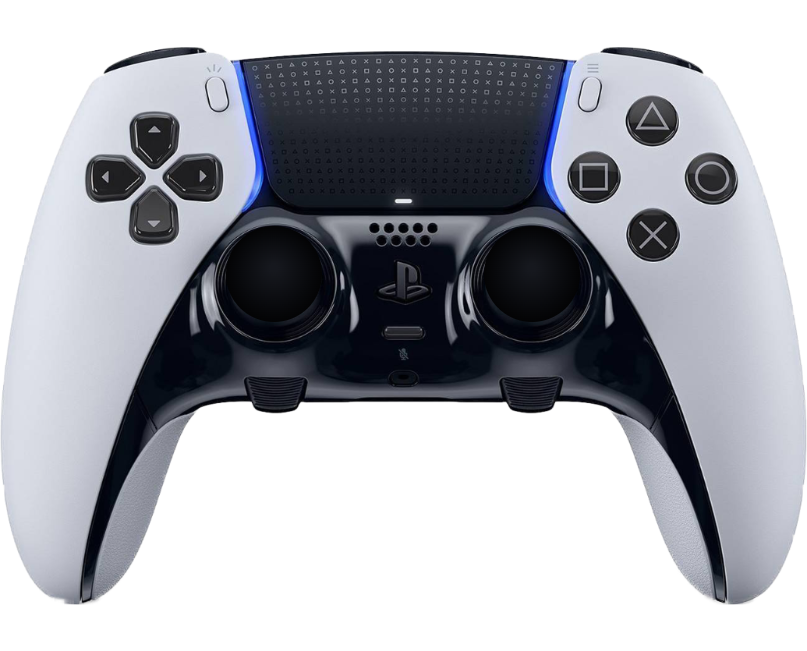
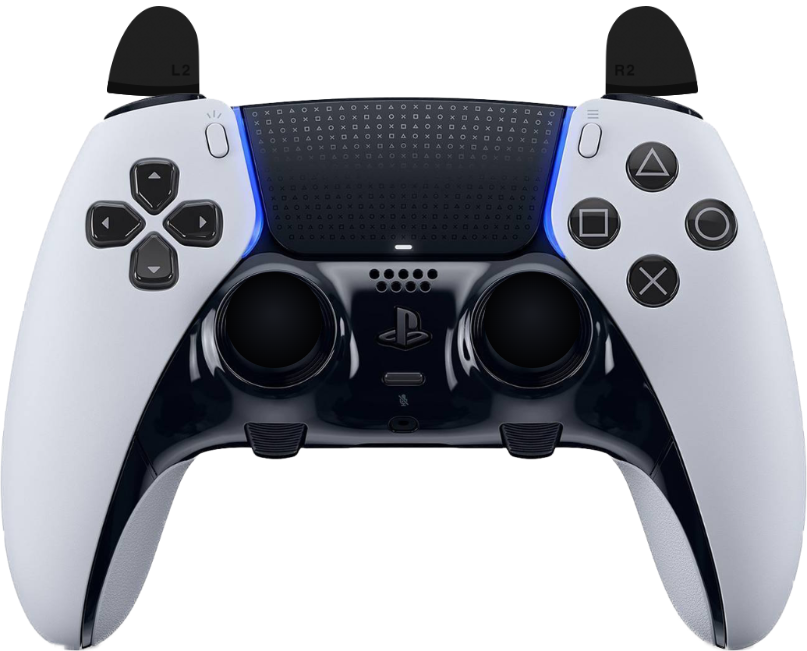
Edge skin: progress-bar triggers and touchpad click
Add L2/R2 trigger art above the shoulders with bottom-up fill sprites
(use smeter=1), a touchpad pressed glow, and move the photo to the
bottom of the canvas to make room. Base rule specificity raised so the
skin's own background can't override it.

diff --git a/edge/style.css b/edge/style.css
@@ -1,6 +1,8 @@
-/* -- DualSense Edge skin for GamepadViewer (Xbox layout, s=1) --
+/* -- DualSense Edge skin for GamepadViewer (Xbox layout) --
 OBS browser source:
-  URL:    https://gamepadviewer.com/?p=1&s=1&editcss=https://raw.githubusercontent.com/86oijd/roller/refs/heads/main/edge/style.css
+  URL:    https://gamepadviewer.com/?p=1&s=1&smeter=1&editcss=https://raw.githubusercontent.com/86oijd/roller/refs/heads/main/edge/style.css
+  (smeter=1 makes the triggers fill like a progress bar)
+  Custom CSS box in OBS: leave only the default body line
   Size:   807 x 651
 Images live in the /edge folder of github.com/86oijd/roller.
 */
@@ -11,8 +13,7 @@ body {
     overflow: hidden;
 }
 
-.controller.xbox,
-.controller.xbox.disconnected {
+body .controller[class] {
     background: url("https://raw.githubusercontent.com/86oijd/roller/refs/heads/main/edge/base.png") no-repeat;
     background-size: 807px 651px;
     width: 807px;
@@ -22,7 +23,7 @@ body {
 }
 
 /* every group spans the whole canvas; children are placed absolutely */
-.xbox .triggers, .xbox .bumpers, .xbox .arrows, .xbox .abxy, .xbox .sticks, .xbox .dpad {
+body .controller .triggers, body .controller .bumpers, body .controller .arrows, body .controller .abxy, body .controller .sticks, body .controller .dpad {
     position: absolute;
     left: 0;
     top: 0;
@@ -30,7 +31,7 @@ body {
     height: 651px;
 }
 
-.xbox .trigger, .xbox .bumper, .xbox .back, .xbox .start, .xbox .button, .xbox .stick, .xbox .face {
+body .controller .trigger, body .controller .touchpad, body .controller .bumper, body .controller .back, body .controller .start, body .controller .button, body .controller .stick, body .controller .face {
     position: absolute;
     float: none !important;
     background-repeat: no-repeat !important;
@@ -39,47 +40,55 @@ body {
     transform: none !important;
 }
 
-.xbox .quadrant { display: none; }
+body .controller .quadrant, body .controller .meta,
+body .controller .wheels, body .controller .fstick, body .controller .trigger-button { display: none !important; }
 
-/* triggers: glow strength follows how far you pull them */
-.xbox .trigger { opacity: 0; }
-.xbox .trigger.left  { background-image: url("https://raw.githubusercontent.com/86oijd/roller/refs/heads/main/edge/trigger-l.png"); left: 93px; top: 14px; width: 124px; height: 62px; }
-.xbox .trigger.right { background-image: url("https://raw.githubusercontent.com/86oijd/roller/refs/heads/main/edge/trigger-r.png"); left: 590px; top: 14px; width: 124px; height: 62px; }
+/* dimmed when gamepadviewer can't see the controller */
+body .controller.disconnected { opacity: .35; }
+
+/* triggers: fill bottom-up with smeter=1 (fade without it) */
+body .controller .trigger { opacity: 0; }
+body .controller .trigger.left  { background-image: url("https://raw.githubusercontent.com/86oijd/roller/refs/heads/main/edge/trigger-l.png"); left: 107px; top: 6px; width: 93px; height: 91px; }
+body .controller .trigger.right { background-image: url("https://raw.githubusercontent.com/86oijd/roller/refs/heads/main/edge/trigger-r.png"); left: 605px; top: 6px; width: 93px; height: 91px; }
+
+/* touchpad click */
+body .controller .touchpad { display: block !important; opacity: 0; background-image: url("https://raw.githubusercontent.com/86oijd/roller/refs/heads/main/edge/touchpad.png"); left: 230px; top: 97px; width: 348px; height: 170px; }
+body .controller .touchpad.pressed { opacity: 1; }
 
 /* bumpers */
-.xbox .bumper { opacity: 0; }
-.xbox .bumper.pressed { opacity: 1; }
-.xbox .bumper.left  { background-image: url("https://raw.githubusercontent.com/86oijd/roller/refs/heads/main/edge/bumper-l.png"); left: 95px; top: 38px; width: 120px; height: 45px; }
-.xbox .bumper.right { background-image: url("https://raw.githubusercontent.com/86oijd/roller/refs/heads/main/edge/bumper-r.png"); left: 592px; top: 38px; width: 120px; height: 45px; }
+body .controller .bumper { opacity: 0; }
+body .controller .bumper.pressed { opacity: 1; }
+body .controller .bumper.left  { background-image: url("https://raw.githubusercontent.com/86oijd/roller/refs/heads/main/edge/bumper-l.png"); left: 95px; top: 84px; width: 120px; height: 45px; }
+body .controller .bumper.right { background-image: url("https://raw.githubusercontent.com/86oijd/roller/refs/heads/main/edge/bumper-r.png"); left: 592px; top: 84px; width: 120px; height: 45px; }
 
 /* create / options */
-.xbox .back, .xbox .start { opacity: 0; }
-.xbox .back.pressed, .xbox .start.pressed { opacity: 1; }
-.xbox .back  { background-image: url("https://raw.githubusercontent.com/86oijd/roller/refs/heads/main/edge/create.png"); left: 199px; top: 71px; width: 33px; height: 43px; }
-.xbox .start { background-image: url("https://raw.githubusercontent.com/86oijd/roller/refs/heads/main/edge/options.png"); left: 576px; top: 71px; width: 33px; height: 43px; }
+body .controller .back, body .controller .start { opacity: 0; }
+body .controller .back.pressed, body .controller .start.pressed { opacity: 1; }
+body .controller .back  { background-image: url("https://raw.githubusercontent.com/86oijd/roller/refs/heads/main/edge/create.png"); left: 199px; top: 117px; width: 33px; height: 43px; }
+body .controller .start { background-image: url("https://raw.githubusercontent.com/86oijd/roller/refs/heads/main/edge/options.png"); left: 576px; top: 117px; width: 33px; height: 43px; }
 
 /* face buttons (drawn in the base photo; glow only when pressed)
    a = cross, b = circle, x = square, y = triangle */
-.xbox .button { background-image: none; opacity: 1; margin: 0 !important; }
-.xbox .a { left: 617px; top: 199px; width: 73px; height: 73px; }
-.xbox .b { left: 674px; top: 143px; width: 73px; height: 73px; }
-.xbox .x { left: 560px; top: 142px; width: 73px; height: 73px; }
-.xbox .y { left: 616px; top: 85px; width: 73px; height: 73px; }
-.xbox .a.pressed { background-image: url("https://raw.githubusercontent.com/86oijd/roller/refs/heads/main/edge/cross-pressed.png"); }
-.xbox .b.pressed { background-image: url("https://raw.githubusercontent.com/86oijd/roller/refs/heads/main/edge/circle-pressed.png"); }
-.xbox .x.pressed { background-image: url("https://raw.githubusercontent.com/86oijd/roller/refs/heads/main/edge/square-pressed.png"); }
-.xbox .y.pressed { background-image: url("https://raw.githubusercontent.com/86oijd/roller/refs/heads/main/edge/triangle-pressed.png"); }
+body .controller .button { background-image: none; opacity: 1; margin: 0 !important; }
+body .controller .a { left: 617px; top: 245px; width: 73px; height: 73px; }
+body .controller .b { left: 674px; top: 189px; width: 73px; height: 73px; }
+body .controller .x { left: 560px; top: 188px; width: 73px; height: 73px; }
+body .controller .y { left: 616px; top: 131px; width: 73px; height: 73px; }
+body .controller .a.pressed { background-image: url("https://raw.githubusercontent.com/86oijd/roller/refs/heads/main/edge/cross-pressed.png"); }
+body .controller .b.pressed { background-image: url("https://raw.githubusercontent.com/86oijd/roller/refs/heads/main/edge/circle-pressed.png"); }
+body .controller .x.pressed { background-image: url("https://raw.githubusercontent.com/86oijd/roller/refs/heads/main/edge/square-pressed.png"); }
+body .controller .y.pressed { background-image: url("https://raw.githubusercontent.com/86oijd/roller/refs/heads/main/edge/triangle-pressed.png"); }
 
 /* sticks (gamepadviewer moves these with margins) */
-.xbox .stick.left  { background-image: url("https://raw.githubusercontent.com/86oijd/roller/refs/heads/main/edge/stick-l.png"); left: 219px; top: 219px; width: 110px; height: 110px; }
-.xbox .stick.right { background-image: url("https://raw.githubusercontent.com/86oijd/roller/refs/heads/main/edge/stick-r.png"); left: 477px; top: 219px; width: 110px; height: 110px; }
-.xbox .stick.left.pressed  { background-image: url("https://raw.githubusercontent.com/86oijd/roller/refs/heads/main/edge/stick-l-pressed.png"); }
-.xbox .stick.right.pressed { background-image: url("https://raw.githubusercontent.com/86oijd/roller/refs/heads/main/edge/stick-r-pressed.png"); }
+body .controller .stick.left  { background-image: url("https://raw.githubusercontent.com/86oijd/roller/refs/heads/main/edge/stick-l.png"); left: 219px; top: 265px; width: 110px; height: 110px; }
+body .controller .stick.right { background-image: url("https://raw.githubusercontent.com/86oijd/roller/refs/heads/main/edge/stick-r.png"); left: 477px; top: 265px; width: 110px; height: 110px; }
+body .controller .stick.left.pressed  { background-image: url("https://raw.githubusercontent.com/86oijd/roller/refs/heads/main/edge/stick-l-pressed.png"); }
+body .controller .stick.right.pressed { background-image: url("https://raw.githubusercontent.com/86oijd/roller/refs/heads/main/edge/stick-r-pressed.png"); }
 
 /* d-pad */
-.xbox .face { opacity: 0; }
-.xbox .face.pressed { opacity: 1; }
-.xbox .face.up    { background-image: url("https://raw.githubusercontent.com/86oijd/roller/refs/heads/main/edge/dpad-up.png"); left: 121px; top: 103px; width: 67px; height: 75px; }
-.xbox .face.down  { background-image: url("https://raw.githubusercontent.com/86oijd/roller/refs/heads/main/edge/dpad-down.png"); left: 120px; top: 177px; width: 68px; height: 76px; }
-.xbox .face.left  { background-image: url("https://raw.githubusercontent.com/86oijd/roller/refs/heads/main/edge/dpad-left.png"); left: 77px; top: 146px; width: 78px; height: 65px; }
-.xbox .face.right { background-image: url("https://raw.githubusercontent.com/86oijd/roller/refs/heads/main/edge/dpad-right.png"); left: 154px; top: 145px; width: 78px; height: 66px; }
+body .controller .face { opacity: 0; }
+body .controller .face.pressed { opacity: 1; }
+body .controller .face.up    { background-image: url("https://raw.githubusercontent.com/86oijd/roller/refs/heads/main/edge/dpad-up.png"); left: 121px; top: 149px; width: 67px; height: 75px; }
+body .controller .face.down  { background-image: url("https://raw.githubusercontent.com/86oijd/roller/refs/heads/main/edge/dpad-down.png"); left: 120px; top: 223px; width: 68px; height: 76px; }
+body .controller .face.left  { background-image: url("https://raw.githubusercontent.com/86oijd/roller/refs/heads/main/edge/dpad-left.png"); left: 77px; top: 192px; width: 78px; height: 65px; }
+body .controller .face.right { background-image: url("https://raw.githubusercontent.com/86oijd/roller/refs/heads/main/edge/dpad-right.png"); left: 154px; top: 191px; width: 78px; height: 66px; }
